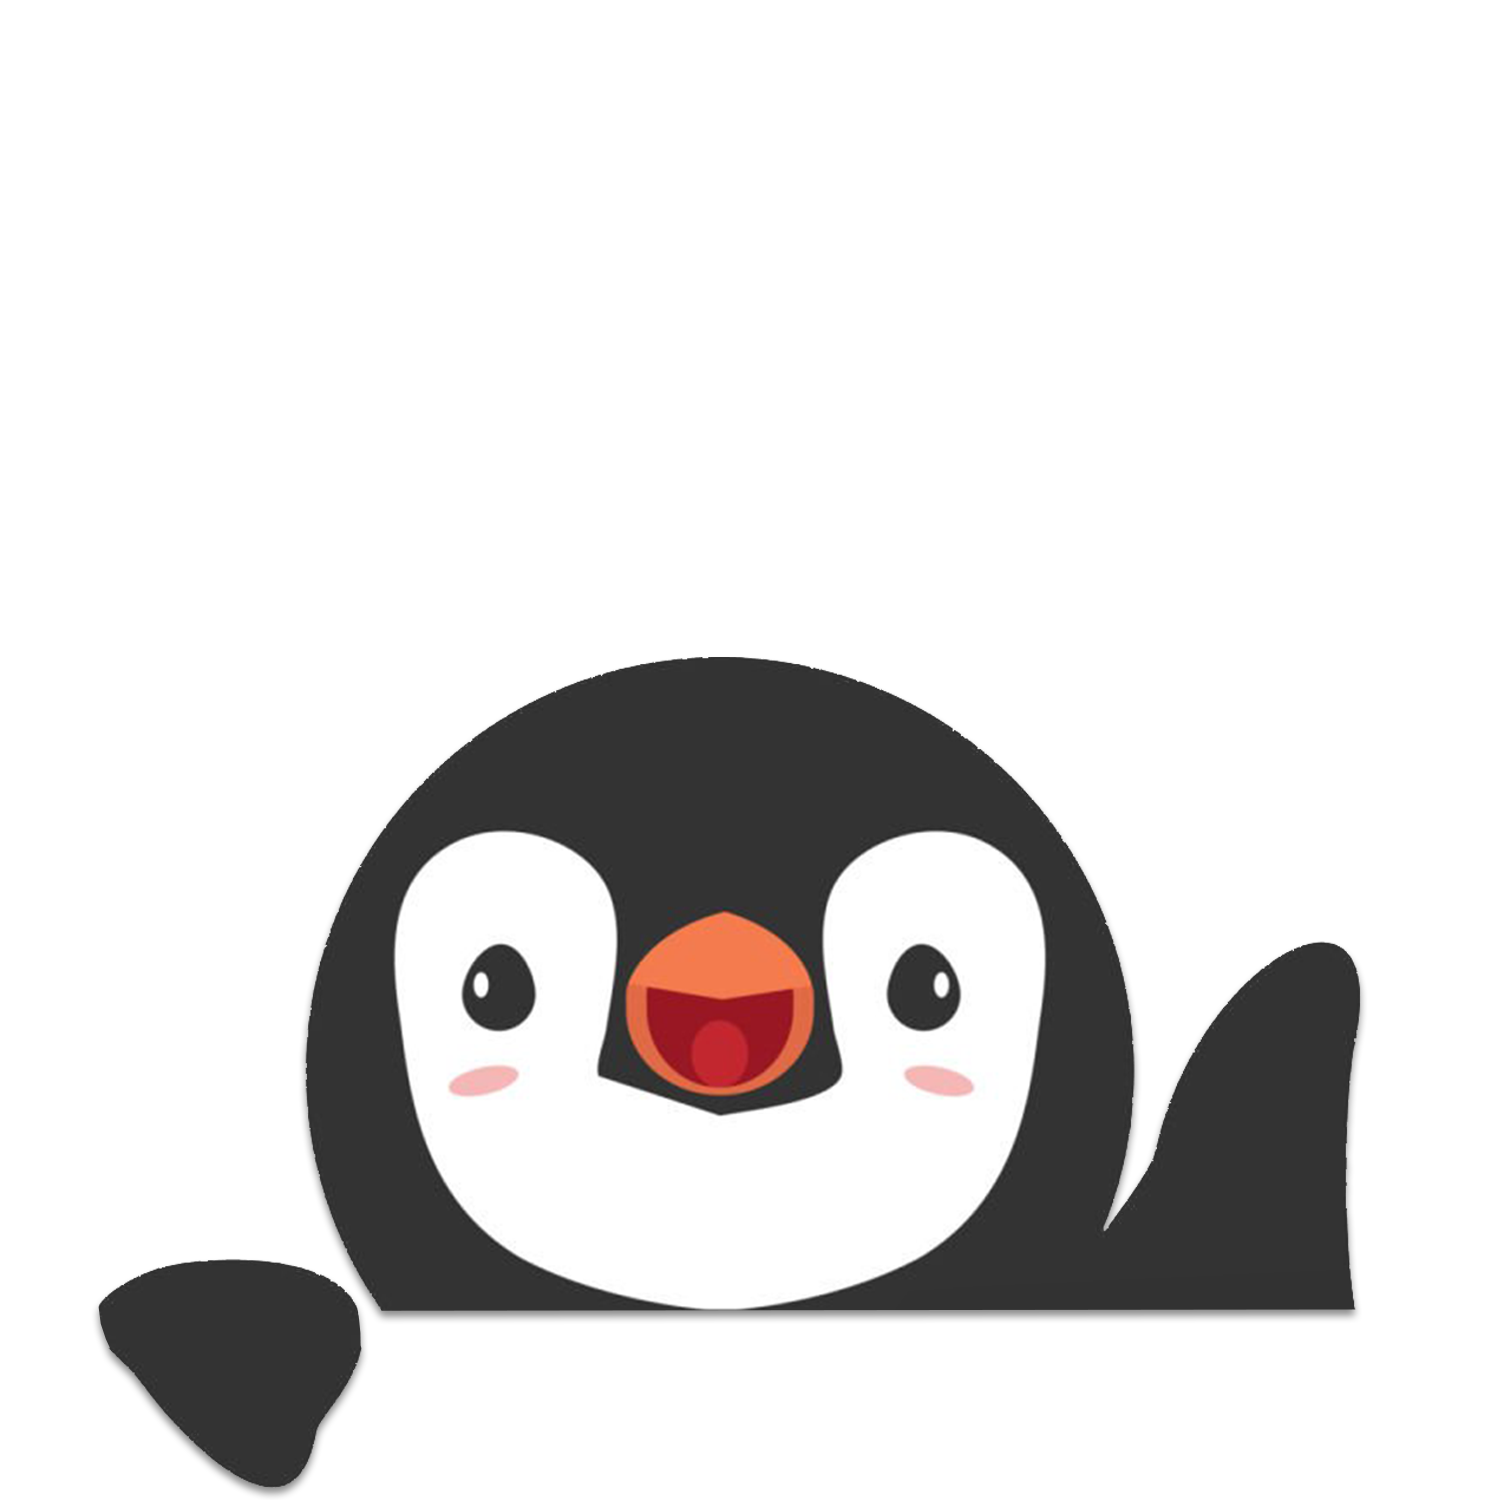
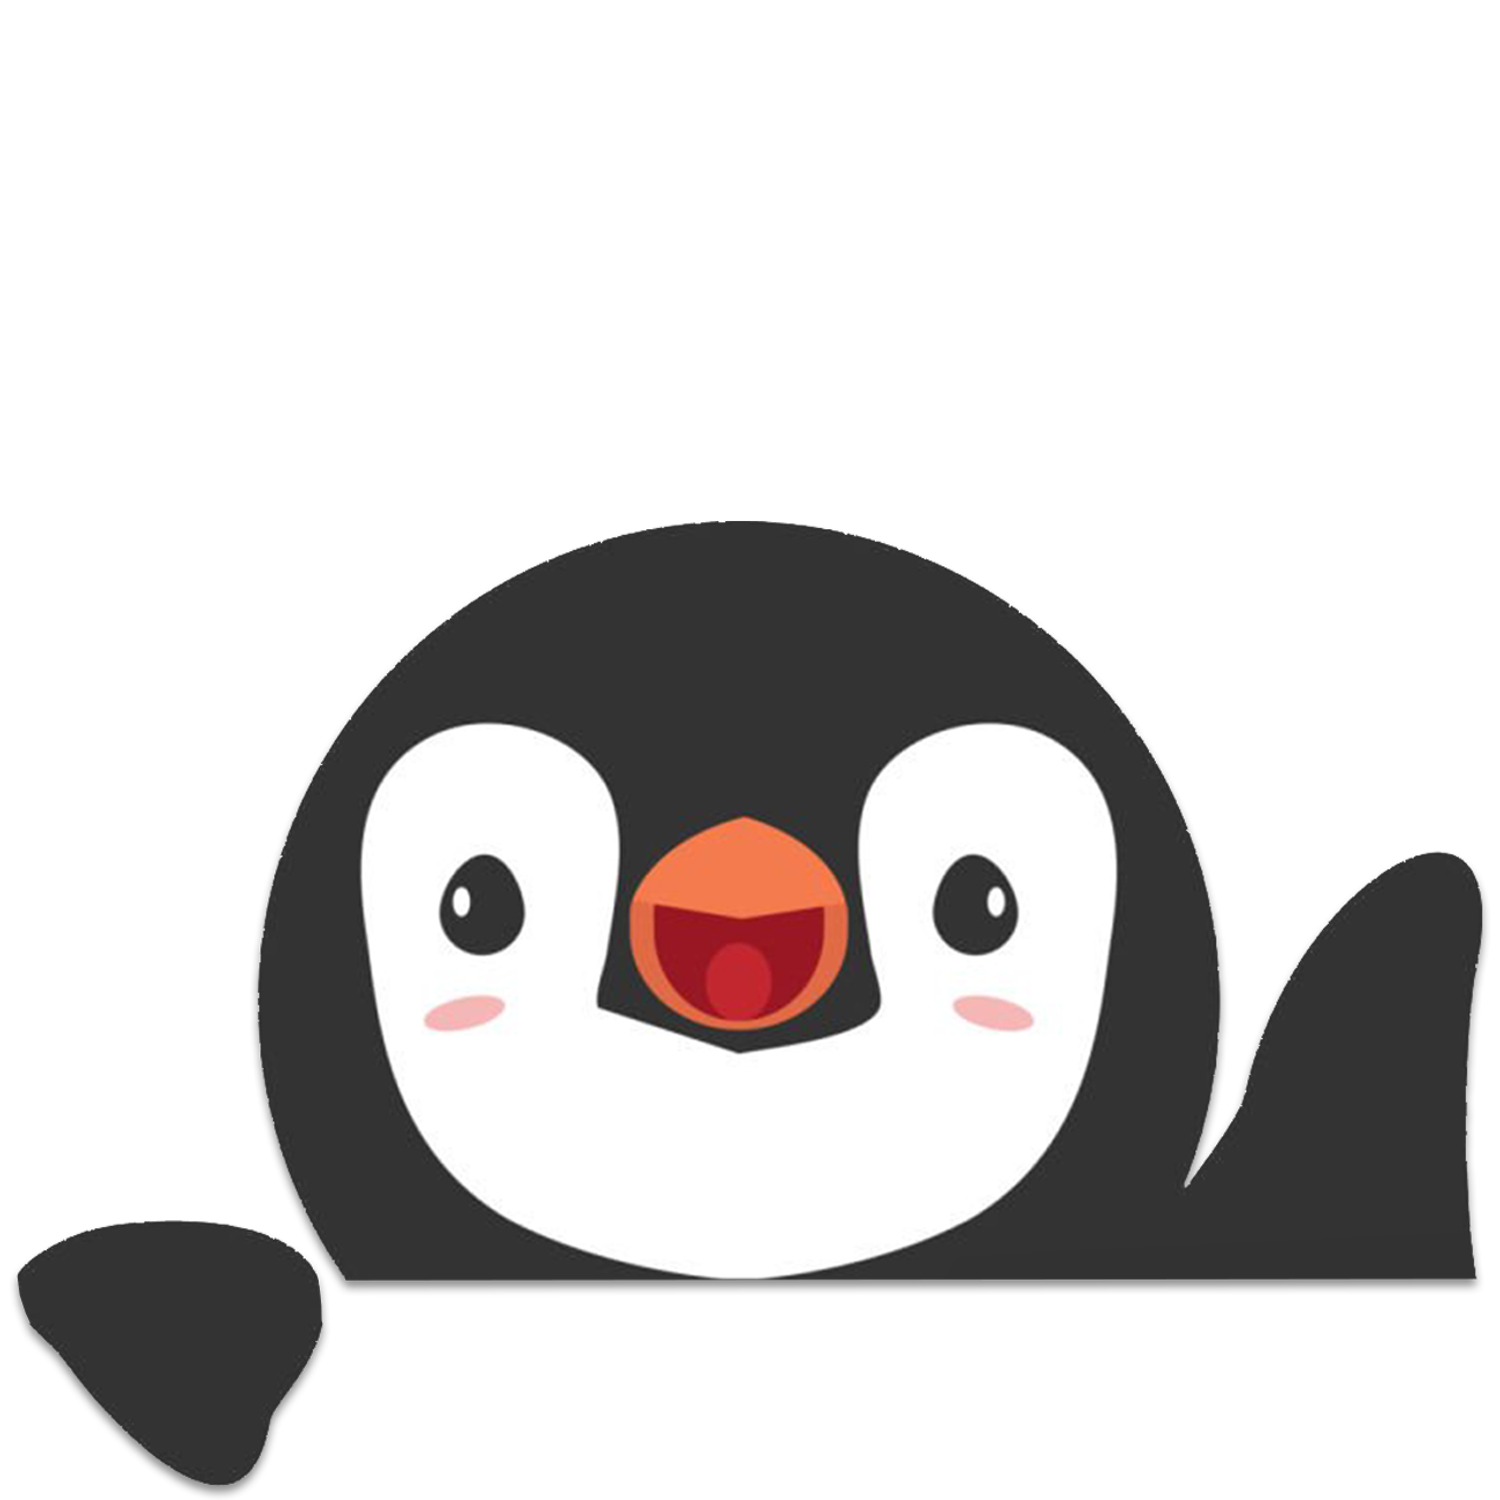
removed shadow around the buttons on navigation menu bar when pressed

Changed region(s): [[0.0, 0.3373, 1.0, 1.0], [0.276, 0.7667, 0.3067, 0.7973]]

diff --git a/app/lib/navigation_menu.dart b/app/lib/navigation_menu.dart
@@ -59,16 +59,18 @@ class NavigationMenuState extends State<NavigationMenu> {
       floatingActionButton: Stack(
         children: [
           Positioned(
-            bottom: kBottomNavigationBarHeight + 12,
-            left: (MediaQuery.of(context).size.width - 125) / 2,
-            child: RawMaterialButton(
+            bottom: kBottomNavigationBarHeight + 10,
+            left: (MediaQuery.of(context).size.width - 150) / 2,
+            child: MaterialButton(
               onPressed: () {
                 showPopup(context);
               },
               elevation: 0,
-              fillColor: Colors.transparent,
-              child:
-              Image.asset(
+              highlightElevation: 0,
+              color: Colors.transparent,
+              splashColor: Colors.transparent,
+              highlightColor: Colors.transparent,
+              child: Image.asset(
                 'assets/pingu-transparent-shadow.png',
                 width: 120,
                 height: 120,
@@ -116,6 +118,7 @@ class NavigationMenuState extends State<NavigationMenu> {
                       ),
                     ),
                     onPressed: () => onItemTapped(0),
+                    highlightColor: Colors.transparent,
                   ),
                 ),
                 Padding(
@@ -133,6 +136,7 @@ class NavigationMenuState extends State<NavigationMenu> {
                       ),
                     ),
                     onPressed: () => onItemTapped(1),
+                    highlightColor: Colors.transparent,
                   ),
                 ),
               ],
